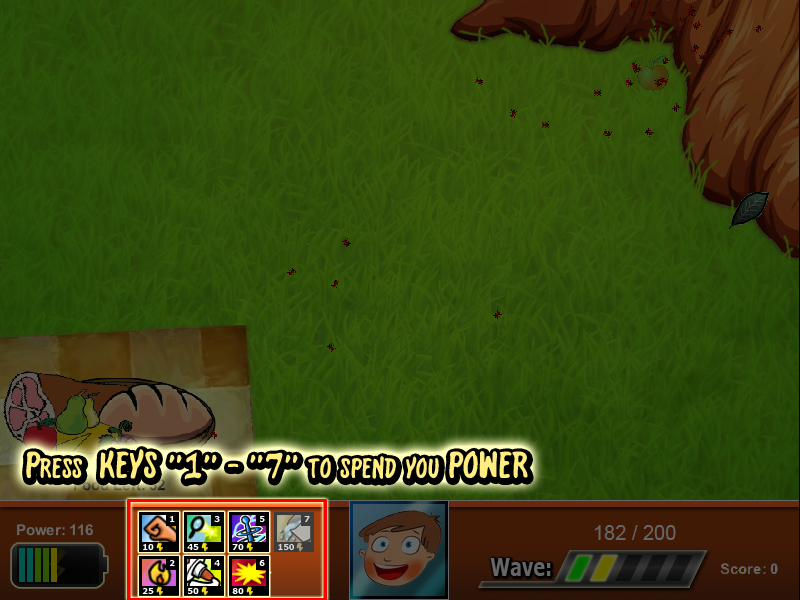
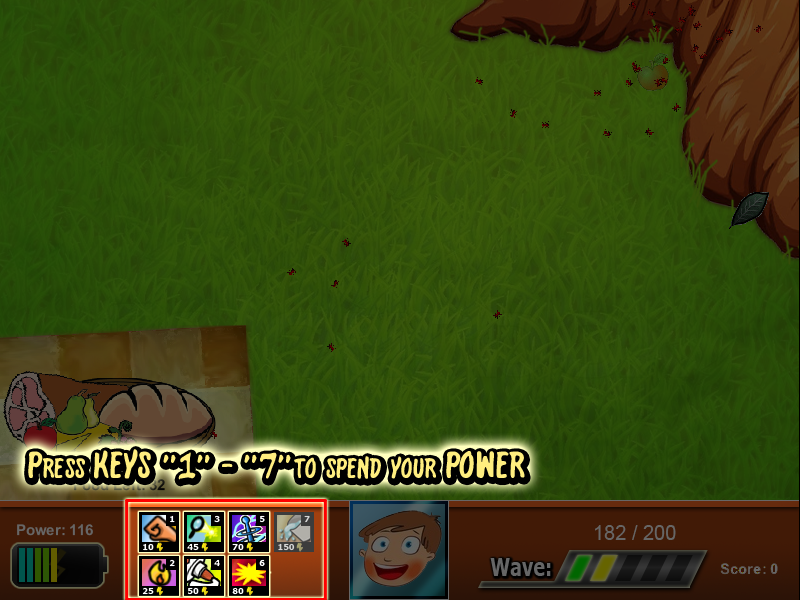
Game v0.5.8 - Initial Balancing Phase - NERF - Reduced time of the beam - BUFF - Increased the radius of impact for the fist - Set transparency of the ant spawner and the ant home to 0, both are now invisible to the player

Changed region(s): [[0.0, 0.72, 0.6875, 0.84], [0.125, 0.84, 0.1875, 1.0]]

diff --git a/TestingWithAnts/Crusher.java b/TestingWithAnts/Crusher.java
@@ -9,12 +9,19 @@ import java.util.*;
  */
 public class Crusher extends Spawnables
 {
+    public static final int RANGE = 70; // Hit-detection range
+    
+    public GreenfootImage fistImg;
+    
     /**
      * Constructor
      */
     public Crusher()
     {
-        setImage(new GreenfootImage("CrushingFist.png"));
+        fistImg = new GreenfootImage("CrushingFist.png");
+        fistImg.scale(fistImg.getWidth(), fistImg.getHeight());
+        
+        setImage(fistImg);
     }
     
     
@@ -36,7 +43,7 @@ public class Crusher extends Spawnables
      */
     private void crush()
     {
-        List ants = getIntersectingObjects(Enemy.class);
+        List ants = getObjectsInRange(RANGE, Enemy.class);
         setting w = (setting)getWorld();
         
         // Play sound effect of fist slamming into the grassy ground

diff --git a/TestingWithAnts/FireCracker.java b/TestingWithAnts/FireCracker.java
@@ -22,7 +22,7 @@ public class FireCracker extends Spawnables
     public FireCracker()
     {
         fcImg = new GreenfootImage("FireCrackers.png");
-        fcImg.scale(fcImg.getWidth() - 30, fcImg.getHeight() - 55);
+        fcImg.scale(fcImg.getWidth() - 26, fcImg.getHeight() - 42);
         
         setImage(fcImg);
         totalSparks = Greenfoot.getRandomNumber(4) + MIN_SPARKS;

diff --git a/TestingWithAnts/AntHome.java b/TestingWithAnts/AntHome.java
@@ -2,6 +2,19 @@ import greenfoot.*;
 
 public class AntHome extends Actor
 {
+    public GreenfootImage img;
+    
+    /**
+     * Constructor
+     */
+    public AntHome()
+    {
+        // Set junk image that will be invisible
+        img = new GreenfootImage("apple1.png");
+        img.setTransparency(0);
+        setImage(img);
+    }
+    
     public void act()
     {
     } 

diff --git a/TestingWithAnts/Beam.java b/TestingWithAnts/Beam.java
@@ -9,7 +9,7 @@ import java.util.List;
  */
 public class Beam extends AnimatedActor
 {
-    public static final int BEAM_TIME_LIMIT = 350;
+    public static final int BEAM_TIME_LIMIT = 270;
     public static final int ALTERNATE = 4;
     
     public GreenfootSound beamSound;

diff --git a/TestingWithAnts/Spawner.java b/TestingWithAnts/Spawner.java
@@ -23,7 +23,7 @@ public class Spawner extends Actor
     public Spawner() {
         GreenfootImage image = new GreenfootImage("apple1.png");
         setImage(image);
-        image.setTransparency(100);
+        image.setTransparency(0);
         delay = 0;
     }
     
